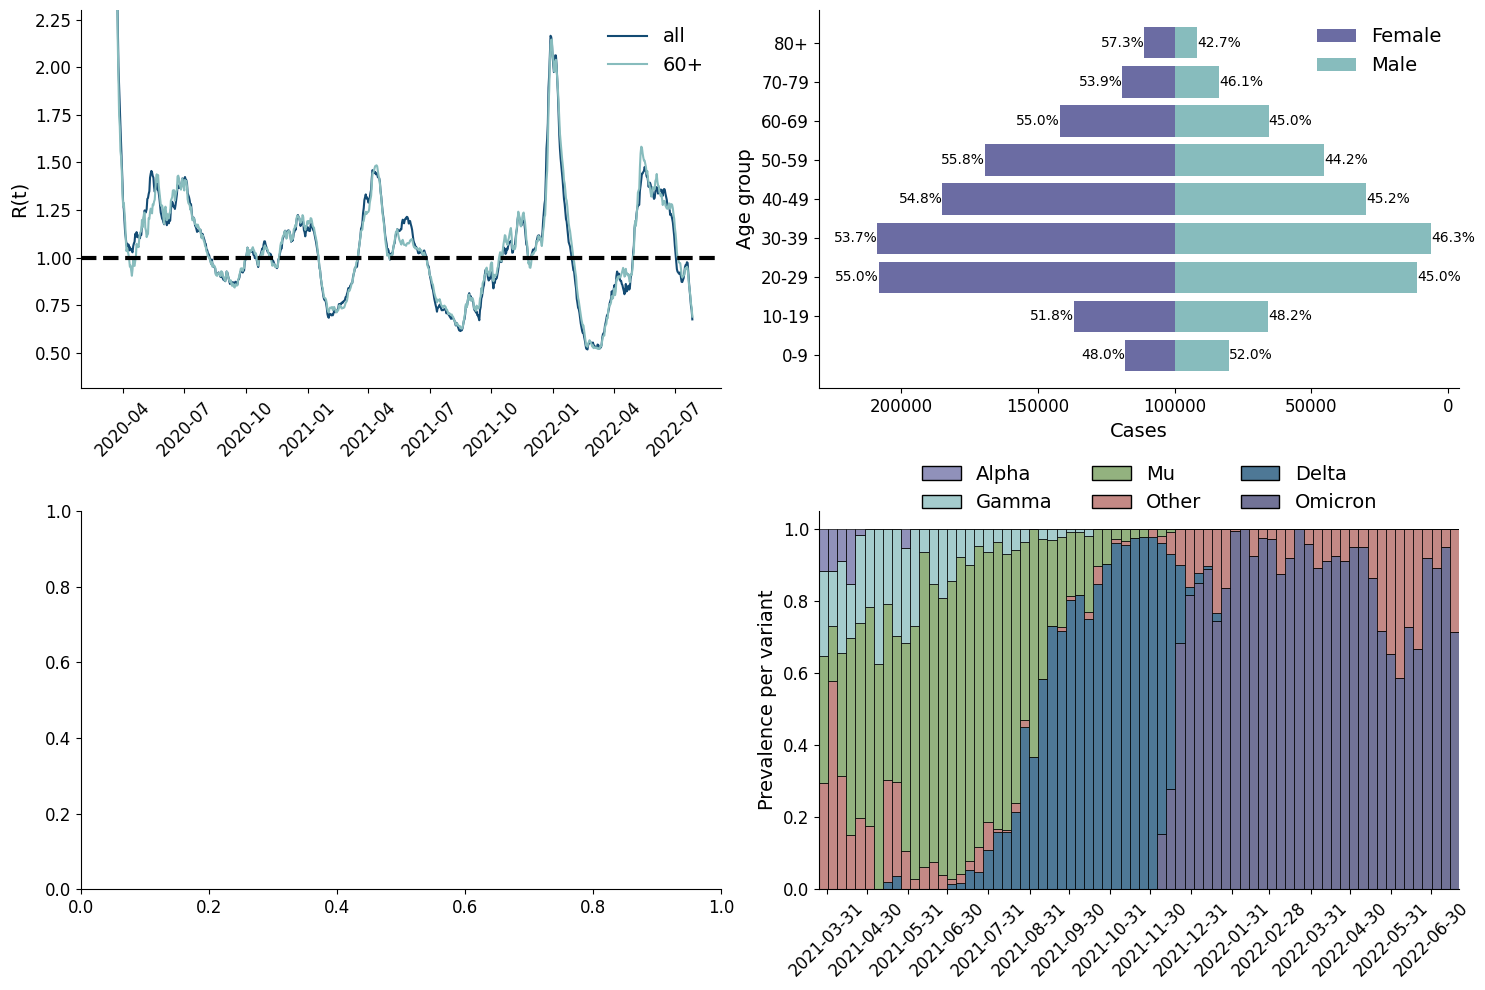
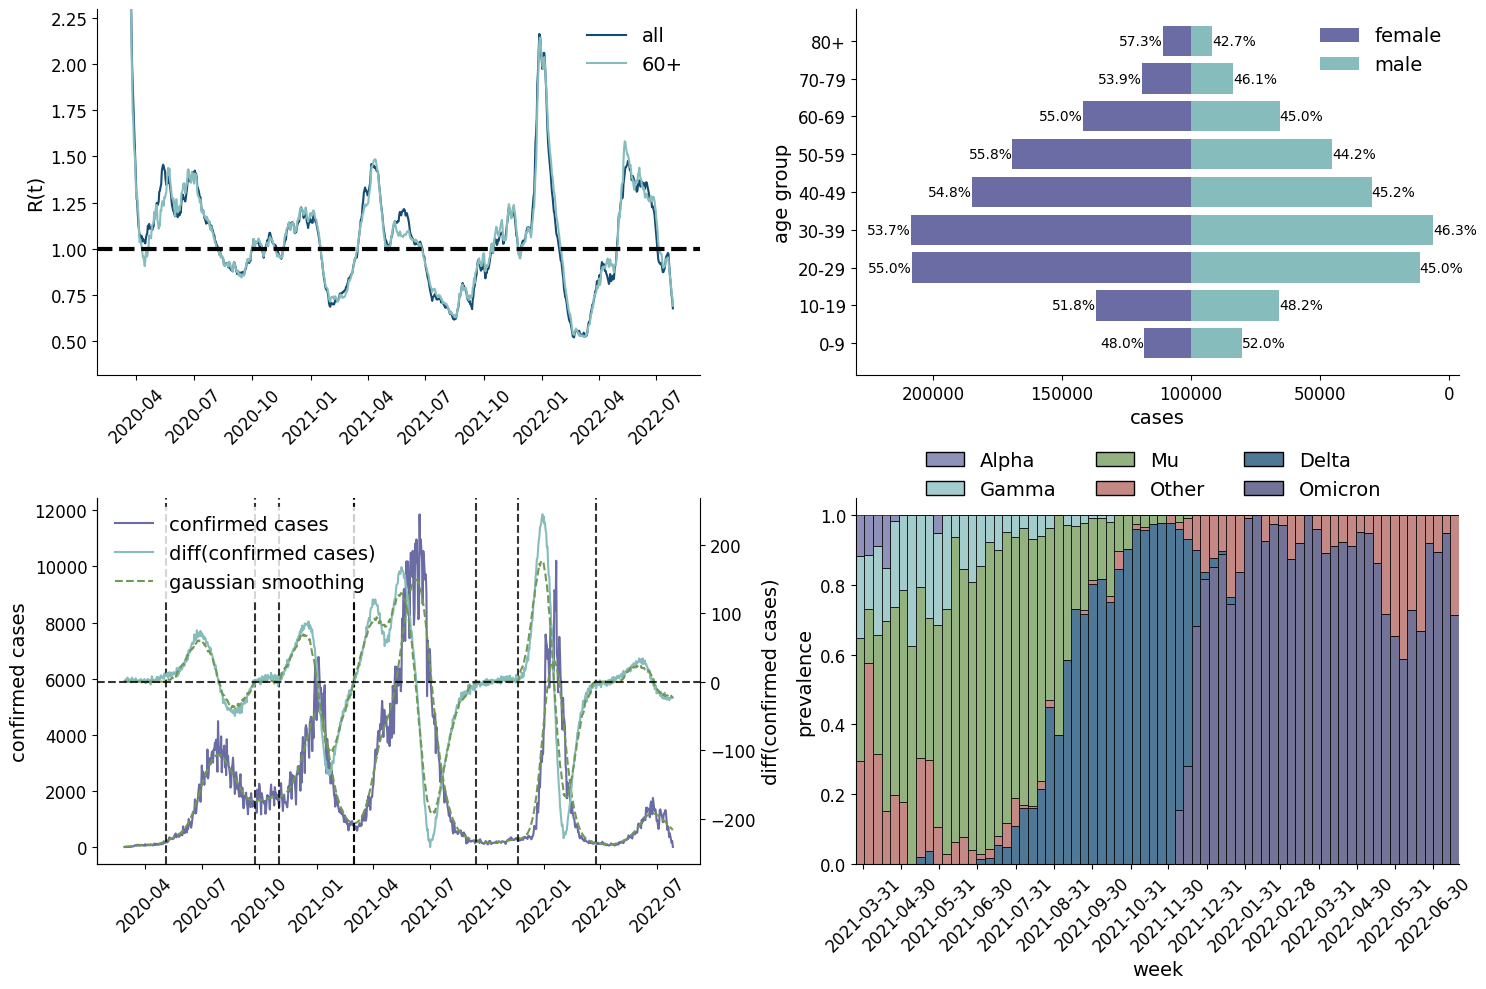
refractor: Add waves plot to figure 1 and slightly change the plotting structure used. Minor style changes (lower case where possible).

diff --git a/plot_scripts/results_waves.py b/plot_scripts/results_waves.py
@@ -51,9 +51,9 @@ df_counts['cases_gs_diff_gs'] = ut.gaussian_smoothing(df_counts, 'cases_gs_diff'
 # Function to plot waves figure
 def plot_waves(ax):
     # Confirmed cases curve
-    ln1 = ax.plot(df_counts['date'], df_counts['cases'], color = colors[0], label = 'Confirmed cases')
+    ln1 = ax.plot(df_counts['date'], df_counts['cases'], color = colors[0], label = 'confirmed cases')
     ln2 = ax.plot(df_counts['date'], df_counts['cases_gs'], color= colors[2], ls = '--')
-    ax.set_ylabel('Confirmed cases')
+    ax.set_ylabel('confirmed cases')
     date_no_dup = []
     for d in range(len(df_waves)):
             ax.axvline(x = df_waves['start_date'].iloc[d], color = 'black', alpha = 0.8, ls = '--')
@@ -62,17 +62,17 @@ def plot_waves(ax):
 
     # First difference plot
     ax2 = ax.twinx()
-    ln3 = ax2.plot(df_counts['date'],df_counts['cases_gs_diff'], colors[1], label = 'Diff(Confirmed cases)')
-    ln4 = ax2.plot(df_counts['date'],df_counts['cases_gs_diff_gs'], colors[2], ls = '--', label = 'Gaussian smoothing')
+    ln3 = ax2.plot(df_counts['date'],df_counts['cases_gs_diff'], colors[1], label = 'diff(confirmed cases)')
+    ln4 = ax2.plot(df_counts['date'],df_counts['cases_gs_diff_gs'], colors[2], ls = '--', label = 'gaussian smoothing')
 
     ax2.axhline(y = 0, color = 'black', alpha = 0.8, ls = '--')
-    ax2.set_ylabel('Diff(Confirmed cases)')
+    ax2.set_ylabel('diff(confirmed cases)')
     ax2.spines.right.set_visible(True) #This was set as False by default in the .mpstyle file
 
     ##Legend
     lns = ln1 + ln2 + ln3 + ln4
     labs = [l.get_label() for l in lns]
-    legend = ax.legend(lns, labs, loc = 0)
+    ax.legend(lns, labs, loc = 0)
 
 fig, ax = plt.subplots(figsize = (15,5))
 plot_waves(ax)

diff --git a/plot_scripts/figure_1.py b/plot_scripts/figure_1.py
@@ -5,6 +5,9 @@ Created on Mon 28 2022
 @author: ntorresd
 """  
 
+import warnings
+warnings.filterwarnings('ignore')
+
 import sys
 import yaml
 import matplotlib.pyplot as plt
@@ -19,18 +22,34 @@ sys.path.append(SCRIPTS_PATH)
 
 import results_rt as results_rt
 import results_genomics as results_genomics
+import results_waves as results_waves
 import population_pyramid as population_pyramid
 
 fig, ax = plt.subplots(2,2, figsize=(15,10))
 
+axi = ax[0][0]
 results_rt.plot_rt(ax=ax[0][0])
-ax[0][0].tick_params(axis='x', rotation=45)
+axi.set_xlabel('')
+axi.set_ylabel('R(t)') 
+axi.set_ylim(top=2.3)
+axi.tick_params(axis='x', rotation=45)
 
-population_pyramid.plot_pyramid(ax=ax[0][1])
-ax[0][1].set_xlim(left=-260000)
+axi = ax[0][1]
+population_pyramid.plot_pyramid(ax=axi)
+axi.set_xlim(left=-260000)
+axi.set_xlabel('cases')
+axi.set_ylabel('age group')
+axi.legend()  
 
-results_genomics.plot_prevalence(ax=ax[1][1])
-ax[1][1].tick_params(axis='x', rotation=45)
+axi = ax[1][0]
+results_waves.plot_waves(ax=axi)
+axi.tick_params(axis='x', rotation=45)
+
+axi = ax[1][1]
+results_genomics.plot_prevalence(ax=axi)
+axi.tick_params(axis='x', rotation=45)
+axi.set_xlabel('week')
+axi.set_ylabel('prevalence')
 
 fig.savefig(FIG_PATH+'figure_1.png')
-fig.show()
+# fig.show()

diff --git a/plot_scripts/population_pyramid.py b/plot_scripts/population_pyramid.py
@@ -58,8 +58,8 @@ def plot_pyramid(ax):
                                 columns=df_confirmed_bogota['sex'],
                                 normalize="index")*100
 
-    hist_f = ax.barh(df_female['age_group'], -df_female['counts'], align='center', label='Female')
-    hist_m = ax.barh(df_male['age_group'], df_male['counts'], align='center', label='Male')
+    hist_f = ax.barh(df_female['age_group'], -df_female['counts'], align='center', label='female')
+    hist_m = ax.barh(df_male['age_group'], df_male['counts'], align='center', label='male')
 
     ax.bar_label(hist_m, labels=['{:.1f}%'.format(prop) for prop in df_prop['M'].round(1)], label_type='edge')
     ax.bar_label(hist_f, labels=['{:.1f}%'.format(prop) for prop in df_prop['F'].round(1)], label_type='edge')
@@ -73,5 +73,5 @@ ax.set_xlim(left=-260000)
 ax.set_xlabel('Cases')
 ax.set_ylabel('Age group')
 ax.legend()     
-fig.show()   
 fig.savefig(FIG_PATH + 'population_pyramid.png')
+# fig.show() 
